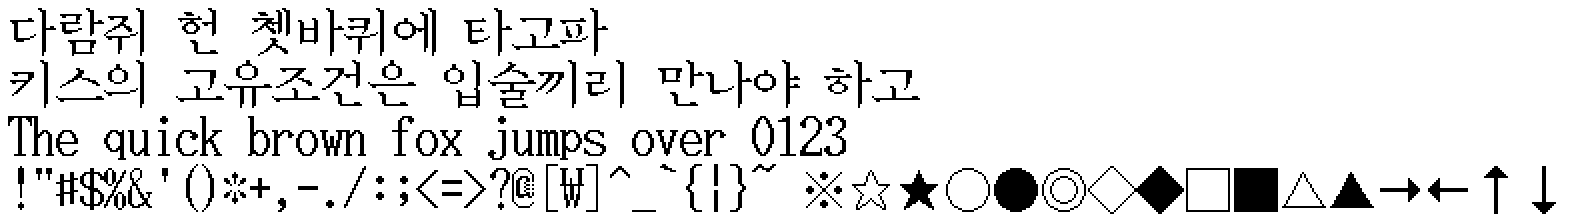
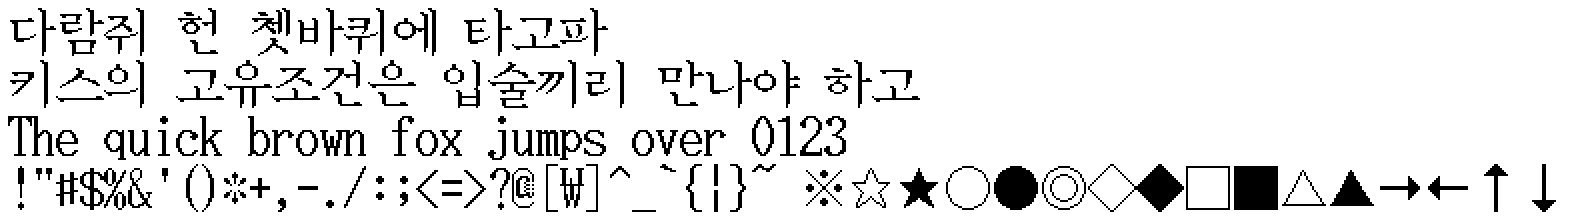
HBIOS 24 px: the precomposed cuts and the symbols take --ascent 22, the baseline jamoset.py reads from the --eng face ('H' covers rows 2-21 of the 24-row cut); note rewritten, KMYZN24.SVF re-measured (220,248 bytes, ascent=22 descent=2, ink 983; fit 30,664 bytes), images redrawn (KO + EN) (t_e71f714

diff --git a/tools/doc_figures_hbios.py b/tools/doc_figures_hbios.py
@@ -14,8 +14,8 @@ drivers are never read or run):
   hbios-myeongjo24.png   jamoset.py --layout 844-hbios24 $KMYZN24.FNT --eng $KROHN24.FNT --symbols
   hbios-myeongjo24-precomposed.png
                          the 2,350 precomposed syllables of the same file (rawcarve.py bdf --offset 32409 --stride 90
-                         --chars ks-hangul --dense) with the ASCII of $KROHN24.FNT (rawcarve.py bdf --offset 6
-                         --stride 60), baked by bdfface.py --cell 24x24
+                         --chars ks-hangul --dense --ascent 22) with the ASCII of $KROHN24.FNT (rawcarve.py bdf
+                         --offset 6 --stride 60 --ascent 22), baked by bdfface.py --cell 24x24
 
 and the symbols of the sample from $KSPHJ16.FNT / $KSPHJ24.FNT (rawcarve.py bdf --chars map with the slot map of
 `tbmfont.py map --blocks symbols`, then mkfont.py --only-listed), drawn ahead of the jamo set (whose --symbols box is
@@ -36,13 +36,15 @@ if HERE not in sys.path:  # python -I drops the script's directory
     sys.path.insert(0, HERE)
 import doc_figures_windows as W  # noqa: E402
 
-# image: (layout, jamo file, English file, symbol file, size, symbol offset, symbol stride, glyph)
+# image: (layout, jamo file, English file, symbol file, size, symbol offset, symbol stride); the symbols stand on
+# ASCENT[size], the English baseline (the row under the ink of 'H') that jamoset.py also takes from --eng
 FACES = (
     ("hbios-gothic16.png", "844", "$KGOZN16.FNT", "$KSAHN16.FNT", "$KSPHJ16.FNT", 16, 0, 32),
     ("hbios-myeongjo16.png", "844", "$KMYZN16.FNT", "$KROHN16.FNT", "$KSPHJ16.FNT", 16, 0, 32),
     ("hbios-myeongjo24.png", "844-hbios24", "$KMYZN24.FNT", "$KROHN24.FNT", "$KSPHJ24.FNT", 24, 9, 90),
 )
 PRE24_PNG = "hbios-myeongjo24-precomposed.png"
+ASCENT = {16: 14, 24: 22}
 
 
 def faces(disk, layout, jamo, eng, sym, size, soff, stride, tmp):
@@ -53,7 +55,7 @@ def faces(disk, layout, jamo, eng, sym, size, soff, stride, tmp):
         fh.write(W.SYMBOLS)
     W.tool("tbmfont.py", "map", "--blocks", "symbols", "-o", smap)
     W.tool("rawcarve.py", "bdf", os.path.join(disk, sym), "--offset", soff, "--glyph", f"{size}x{size}", "--stride",
-           stride, "--chars", "map", "--map", smap, "-o", os.path.join(tmp, "symbols.bdf"))
+           stride, "--chars", "map", "--map", smap, "--ascent", ASCENT[size], "-o", os.path.join(tmp, "symbols.bdf"))
     sface = os.path.join(tmp, "symbols.svf")
     W.tool("mkfont.py", os.path.join(tmp, "symbols.bdf"), sface, "--size", size, "--bpp", 1, "--unicode", "file:" + syms,
            "--only-listed")
@@ -70,9 +72,9 @@ def precomposed24(disk, tmp):
     with open(sample, "w", encoding="utf-8") as fh:
         fh.write("".join(W.LINES))
     W.tool("rawcarve.py", "bdf", os.path.join(disk, "$KMYZN24.FNT"), "--offset", PRE24_OFFSET, "--glyph", "24x24",
-           "--stride", 90, "--chars", "ks-hangul", "--dense", "--ascent", 20, "-o", os.path.join(tmp, "hangul.bdf"))
+           "--stride", 90, "--chars", "ks-hangul", "--dense", "--ascent", 22, "-o", os.path.join(tmp, "hangul.bdf"))
     W.tool("rawcarve.py", "bdf", os.path.join(disk, "$KROHN24.FNT"), "--offset", 6, "--glyph", "12x24", "--stride", 60,
-           "--chars", "ascii", "--count", 128, "--ascent", 20, "-o", os.path.join(tmp, "ascii.bdf"))
+           "--chars", "ascii", "--count", 128, "--ascent", 22, "-o", os.path.join(tmp, "ascii.bdf"))
     face = os.path.join(tmp, "pre.svf")
     W.tool("bdfface.py", "--hangul", os.path.join(tmp, "hangul.bdf"), "--ascii", os.path.join(tmp, "ascii.bdf"),
            "--cell", "24x24", "--chars-from", sample, "-o", face)

diff --git a/docs/recipes/dos-fonts.md b/docs/recipes/dos-fonts.md
@@ -112,10 +112,11 @@ alone).
 
 The 2,350 precomposed syllables of `$KMYZN24.FNT` start after the 360 jamo pieces (360 x 90 = 32,400 bytes), at row 3
 of the cell (+9 bytes); the ASCII of `$KROHN24.FNT` starts at offset 6 (row 3 x 2 bytes), 60 bytes apart. The baseline
-goes under row 20 of the cell:
+is row 22 of the 24-row cut: the 'H' of `$KROHN24.FNT` covers rows 5-24 of its 30-row cell, rows 2-21 of the cut, and
+`jamoset.py` takes the row under it as the baseline of a 12x24 `--eng` face. The precomposed cut uses the same 22:
 
-    python3 -I tools/rawcarve.py bdf "$HB"/'$KMYZN24.FNT' --offset 32409 --glyph 24x24 --stride 90 --chars ks-hangul --dense --ascent 20 -o $OUT/kmyzn24-hangul.bdf
-    python3 -I tools/rawcarve.py bdf "$HB"/'$KROHN24.FNT' --offset 6 --glyph 12x24 --stride 60 --chars ascii --count 128 --ascent 20 -o $OUT/krohn24.bdf
+    python3 -I tools/rawcarve.py bdf "$HB"/'$KMYZN24.FNT' --offset 32409 --glyph 24x24 --stride 90 --chars ks-hangul --dense --ascent 22 -o $OUT/kmyzn24-hangul.bdf
+    python3 -I tools/rawcarve.py bdf "$HB"/'$KROHN24.FNT' --offset 6 --glyph 12x24 --stride 60 --chars ascii --count 128 --ascent 22 -o $OUT/krohn24.bdf
     python3 -I tools/bdfface.py --hangul $OUT/kmyzn24-hangul.bdf --ascii $OUT/krohn24.bdf --cell 24x24 --chars-from $OUT/ks.txt -o $OUT/KMYZN24.SVF
 
 The symbols and hanja are cut with the slot map of `tbmfont.py map`, as `HFONT.SYS` in the [Windows
@@ -123,7 +124,7 @@ recipe](windows.md#windows-hfont-sys) (the SPHJ files have no header and start w
 
     python3 -I tools/tbmfont.py map --blocks symbols,hanja -o $OUT/sphj.map
     python3 -I tools/rawcarve.py bdf "$HB"/'$KSPHJ16.FNT' --offset 0 --glyph 16x16 --chars map --map $OUT/sphj.map -o $OUT/ksphj16.bdf
-    python3 -I tools/rawcarve.py bdf "$HB"/'$KSPHJ24.FNT' --offset 9 --glyph 24x24 --stride 90 --chars map --map $OUT/sphj.map --ascent 20 -o $OUT/ksphj24.bdf
+    python3 -I tools/rawcarve.py bdf "$HB"/'$KSPHJ24.FNT' --offset 9 --glyph 24x24 --stride 90 --chars map --map $OUT/sphj.map --ascent 22 -o $OUT/ksphj24.bdf
 
 Measured (check line `안녕하세요 ABC 123`; the ink of the 24 px faces with `line 400 32 0 24`):
 
@@ -132,14 +133,15 @@ Measured (check line `안녕하세요 ABC 123`; the ink of the 24 px faces with 
 | `KGOZN16J.SVF`, gothic 16 px jamo set (`--eng $KSAHN16`) | `15,736` | 441 (344 pieces) | `width=144 ascent=14 descent=2` | 535 |
 | `KMYZN16J.SVF`, myeongjo 16 px jamo set (`--eng $KROHN16`) | `15,864` | 441 (344 pieces) | `width=144 ascent=14 descent=2` | 509 |
 | `KMYZN24J.SVF`, myeongjo 24 px jamo set (`--eng $KROHN24`) | `23,380` | 441 (344 pieces) | `width=216 ascent=22 descent=2` | 966 |
-| `KMYZN24.SVF`, the same file's 2,350 precomposed syllables + `$KROHN24` ASCII | `220,244` | 2,447 | `width=216 ascent=20 descent=4` | 983 |
+| `KMYZN24.SVF`, the same file's 2,350 precomposed syllables + `$KROHN24` ASCII | `220,248` | 2,447 | `width=216 ascent=22 descent=2` | 983 |
 | `ksphj16.bdf` / `ksphj24.bdf` | | 5,872 / 5,871 | | |
 
 For all three jamo sets `--check` composes the 11,172 syllables, and the two 16 px ones equal the syllables of
 `johab844.py` ("identical to johab844.py"). `svf2to3.py --check` leaves all four faces as they are. `fontmetrics.py`
 reports, for the 16 px jamo sets, only the U+2026 of `--symbols` reaching 1 px past its advance. The ascent 22 of the
-24 px jamo set is `jamoset.py`'s default (7/8 of the cell); give `--ascent 20` to put it on the English baseline, as
-the precomposed face (`--ascent 20`) has it.
+24 px jamo set is the baseline of its `--eng` face (the row under the ink of 'H'), which `jamoset.py` takes by default
+for a 12x24 English face; the precomposed face is cut with the same `--ascent 22`, so both stand on the English
+baseline.
 
 **The jamo set against the same file's precomposed syllables.** `$KMYZN24.FNT` holds both, so they can be compared.
 The 2,350 KS X 1001 syllables composed by the jamo set (`KMYZN24J.SVF`), against the file's own precomposed syllables
@@ -149,7 +151,7 @@ pixels precomposed, 294,308 composed). The strokes have the same shapes; the pie
 to syllable: the precomposed glyphs move each jamo to suit the vowel and the final (the ㅎ and ㅓ of `헌`, for example).
 The ㅟ, ㅝ, ㅢ families differ most (`뗍 찌 츤 쮜 쒼 쭤 윗 귓 킥 쪄`). The other way round, fitting an 8x4x4 to the precomposed
 face with `jamoset.py --layout 844 --from-svf $OUT/KMYZN24.SVF --mask-font none --check` gives `fit: 2350 syllables,
-IoU 0.719 (p5 0.457), F1 tol1 0.986`, 17 exact, `30,660 bytes`. The file's jamo set is what HBIOS draws; the
+IoU 0.719 (p5 0.457), F1 tol1 0.986`, 17 exact, `30,664 bytes`. The file's jamo set is what HBIOS draws; the
 precomposed face is a design touched up syllable by syllable (about 9.4 times the bytes).
 
 ![The IBM HBIOS V3.0 gothic 16 px jamo set ($KGOZN16) with the sans English font ($KSAHN16) and the symbols of $KSPHJ16, x2](../images/recipes/dos/hbios-gothic16.png)
